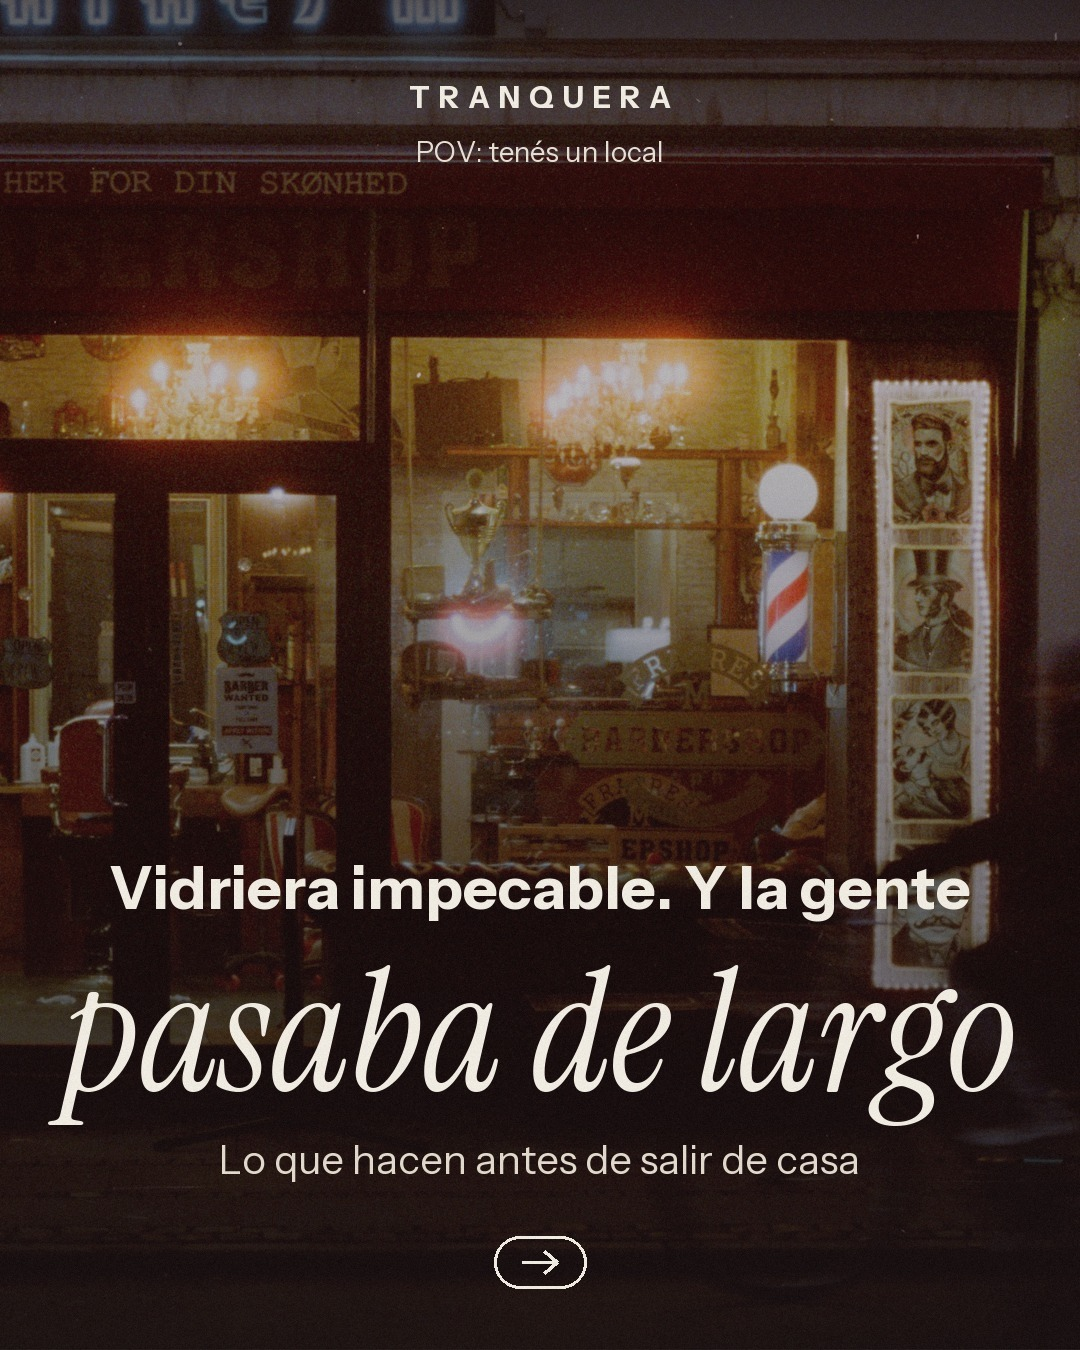
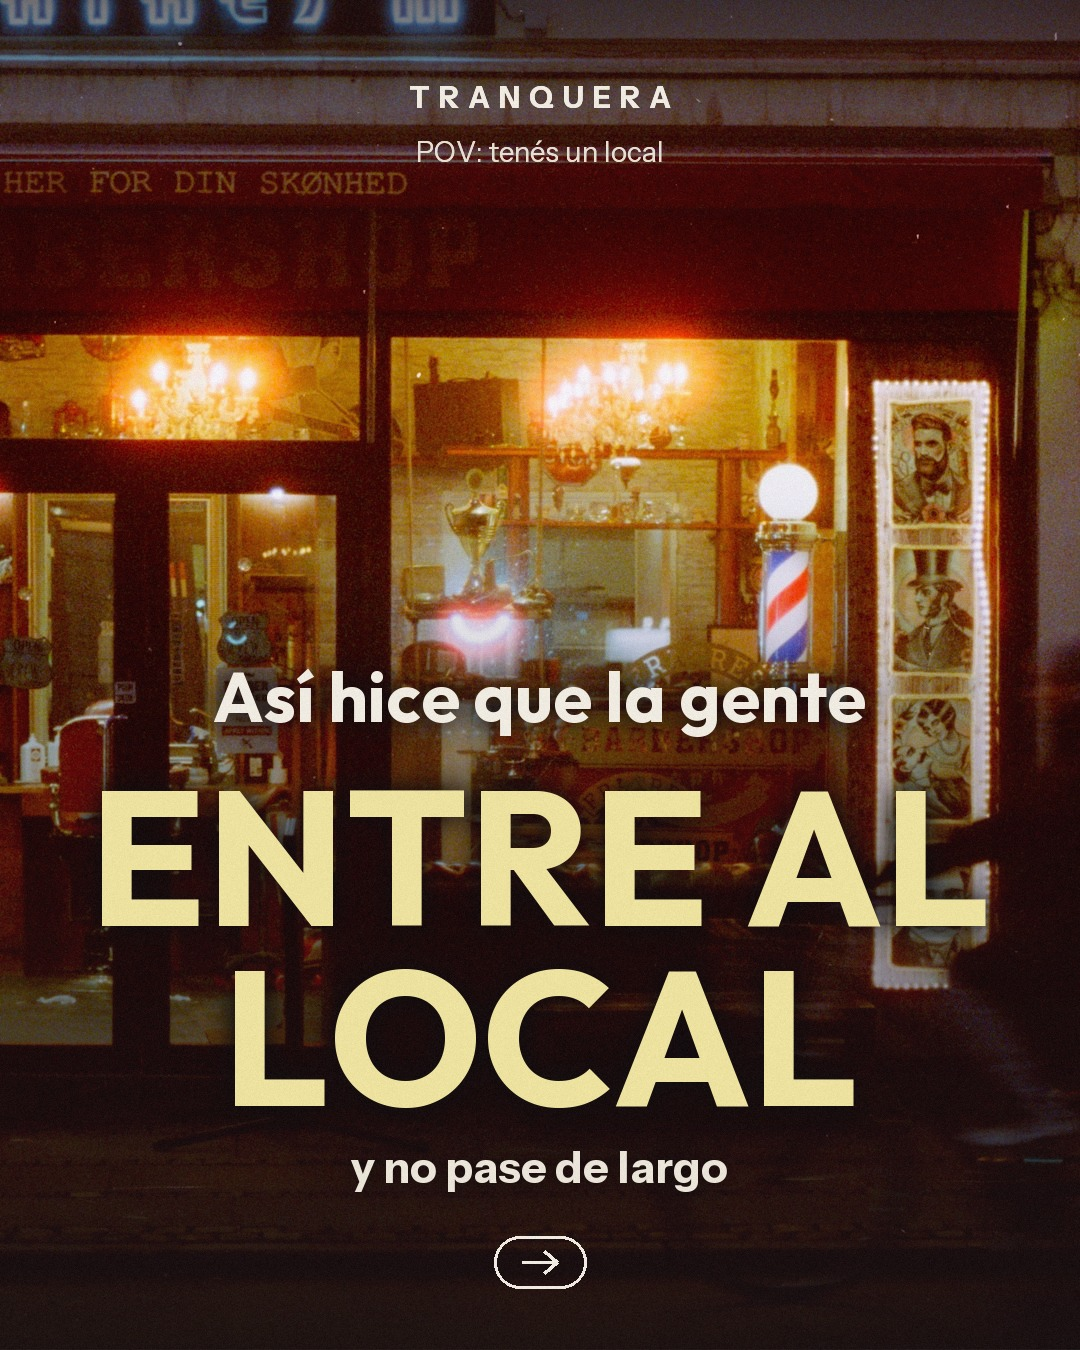
Carruseles diarios v3: tapas vivas, letra gorda, ganchos de solucion

diff --git a/carruseles-diarios/index.html b/carruseles-diarios/index.html
@@ -33,85 +33,85 @@ h1{font:800 clamp(38px,7vw,72px)/1 "Instrument Sans";margin:0 0 12px}h1 i{font:4
 <article class="car">
 <div class="imgs"><img src="img/c01-1.jpg" alt="Tapa 1" loading="lazy"><img src="img/c01-2.jpg" alt="Segunda tapa 1" loading="lazy"></div>
 <div class="txt"><p class="meta">Jue 19/11 · 12:30 · <b>Página + Google</b> · Problema / solución</p>
-<h2>Nadie me encontraba en <i>Google</i></h2><p class="rem">Era la ficha a medio llenar</p>
+<h2>Mi ficha de Google estaba a medias. Así la completé en <i>10 minutos</i></h2><p class="rem">Los 7 casilleros, uno por uno</p>
 <ol><li>Tapa</li><li>Segunda tapa: el casillero que casi todos dejan vacío</li><li>Nombre, rubro, horario, teléfono, fotos, web y reseñas: mal cargado vs bien cargado (ya producido, carrusel-ficha)</li><li>Cierre: guardalo + palabra clave</li></ol>
 <p class="cta"><span>FICHA</span> Comentá FICHA y te revisamos la tuya por privado.</p>
 <p class="tags">#negociolocal #pymesargentinas #googlemaps #comerciantes #tranqueradigital</p><p class="nota">El interior ya está hecho; cambia solo la tapa.</p></div></article><article class="car">
 <div class="imgs"><img src="img/c02-1.jpg" alt="Tapa 2" loading="lazy"><img src="img/c02-2.jpg" alt="Segunda tapa 2" loading="lazy"></div>
 <div class="txt"><p class="meta">Vie 20/11 · 12:30 · <b>Bot de WhatsApp</b> · Storytelling: del dolor a la solución</p>
-<h2>Contestaba el WhatsApp <i>a las 23 hs</i></h2><p class="rem">y ya le habían comprado a otro</p>
+<h2>Así hice que mi WhatsApp conteste <i>a las 23 hs</i></h2><p class="rem">sin que yo agarre el celu</p>
 <ol><li>Tapa</li><li>Segunda tapa: siempre las mismas 5 preguntas</li><li>Las 5: precio, horario, dónde están, si hacen envíos, si hay turno</li><li>Cada una con un chat ilustrado: cliente pregunta a las 23:47, nadie contesta</li><li>El giro: algo que contesta esas 5 al instante, con tu forma de hablar</li><li>Lo que no sabe, te lo pasa a vos (vos seguís siendo el dueño de la charla)</li><li>Cierre: palabra clave</li></ol>
 <p class="cta"><span>BOT</span> Comentá BOT y te mostramos por privado cómo quedaría en tu WhatsApp.</p>
 <p class="tags">#whatsappbusiness #emprendedoresargentinos #atencionalcliente #pymesargentinas #tranqueradigital</p><p class="nota">El 80% es parte de la escena (POV), no una estadística: en la placa va como frase del personaje.</p></div></article><article class="car">
 <div class="imgs"><img src="img/c03-1.jpg" alt="Tapa 3" loading="lazy"><img src="img/c03-2.jpg" alt="Segunda tapa 3" loading="lazy"></div>
 <div class="txt"><p class="meta">Sáb 21/11 · 12:30 · <b>Bot de redes</b> · Storytelling: del dolor a la solución</p>
-<h2>Terminé <i>abandonando</i></h2><p class="rem">el Instagram. Así volví.</p>
+<h2>Así volví a publicar en Instagram <i>todos los días</i></h2><p class="rem">sin perder una sola tarde</p>
 <ol><li>Tapa</li><li>Segunda tapa: el perfil con el último posteo de marzo</li><li>Lo que piensa un cliente nuevo cuando ve un Instagram abandonado: ¿estará abierto?</li><li>Lo que de verdad lleva tiempo: pensar qué subir, diseñar, escribir, acordarse</li><li>Cómo es con un bot de redes: vos aprobás, el resto se arma solo</li><li>Un mes de tu Instagram en una pantalla (calendario ilustrado)</li><li>Cierre: palabra clave</li></ol>
 <p class="cta"><span>REDES</span> Comentá REDES y te contamos por privado cómo funciona y cuánto sale.</p>
 <p class="tags">#emprendedoras #emprendedoresargentinos #redessociales #negociolocal #tranqueradigital</p></div></article><article class="car">
 <div class="imgs"><img src="img/c04-1.jpg" alt="Tapa 4" loading="lazy"><img src="img/c04-2.jpg" alt="Segunda tapa 4" loading="lazy"></div>
 <div class="txt"><p class="meta">Dom 22/11 · 12:30 · <b>Bot de redes</b> · Tu método (cómo escribimos)</p>
-<h2>Publicaba todos los días y <i>nadie comentaba</i></h2><p class="rem">El problema era la primera frase</p>
+<h2>Así cambié una sola frase y <i>me comentan</i></h2><p class="rem">Ganchos que funcionan, rubro por rubro</p>
 <ol><li>Tapa</li><li>Segunda tapa: buscá tu rubro</li><li>Verdulería · IA: &#x27;Frutas y verduras frescas&#x27; / Humano: &#x27;Tiré 20 kilos de tomate hasta que entendí esto&#x27;</li><li>Consultorio · IA: &#x27;Atención de calidad&#x27; / Humano: &#x27;La pregunta que todos me hacen y me da vergüenza contestar&#x27;</li><li>Pilates · IA: &#x27;Clases para todos los niveles&#x27; / Humano: &#x27;Llegó con dolor de espalda y no se animaba a subir al reformer&#x27;</li><li>Corralón · IA: &#x27;Todo para tu obra&#x27; / Humano: &#x27;Le vendí 3 bolsas de más porque nadie le hizo esta cuenta&#x27;</li><li>Ropa · IA: &#x27;Nueva temporada&#x27; / Humano: &#x27;El pantalón que se probaron 40 y se llevaron 2&#x27;</li><li>La regla en una placa: alguien, algo que perdió, un número, cortado antes del final</li><li>Cierre: guardalo + palabra clave</li></ol>
 <p class="cta"><span>GANCHOS</span> Comentá GANCHOS y te mandamos 5 para tu rubro por privado.</p>
 <p class="tags">#marketingdigital #emprendedoresargentinos #instagramtips #comerciantes #tranqueradigital</p><p class="nota">Es el formato del carrusel que mandaste, con nuestra paleta y rubros de comercio.</p></div></article><article class="car">
 <div class="imgs"><img src="img/c05-1.jpg" alt="Tapa 5" loading="lazy"><img src="img/c05-2.jpg" alt="Segunda tapa 5" loading="lazy"></div>
 <div class="txt"><p class="meta">Lun 23/11 · 12:30 · <b>Bot de redes</b> · Qué nos diferencia (3 opciones comparadas)</p>
-<h2>No podía pagar un <i>community manager</i></h2><p class="rem">Así lo resolví igual</p>
+<h2>Así tengo el Instagram al día <i>sin pagar un sueldo</i></h2><p class="rem">Las 3 opciones, comparadas</p>
 <ol><li>Tapa</li><li>Segunda tapa: las 3 opciones</li><li>Opción 1: hacerlo vos. Cuesta tiempo: tus noches y tus domingos</li><li>Opción 2: un community manager. Cuesta un sueldo todos los meses</li><li>Opción 3: un bot de redes. Planifica, diseña y publica; vos aprobás desde el celu</li><li>Tabla comparativa: tiempo, costo, constancia, quién decide</li><li>Cierre: precio por privado</li></ol>
 <p class="cta"><span>PRECIO</span> Comentá PRECIO y te pasamos el número por privado. Te va a sorprender.</p>
 <p class="tags">#communitymanager #emprendedoresargentinos #pymesargentinas #redessociales #tranqueradigital</p><p class="nota">Sin cifra del community manager en la placa: no hay un número confiable para 2026. Si querés poner $900.000, necesito de dónde sale.</p></div></article><article class="car">
 <div class="imgs"><img src="img/c06-1.jpg" alt="Tapa 6" loading="lazy"><img src="img/c06-2.jpg" alt="Segunda tapa 6" loading="lazy"></div>
 <div class="txt"><p class="meta">Mar 24/11 · 12:30 · <b>Página web</b> · Problema / solución</p>
-<h2>Vidriera impecable. Y la gente <i>pasaba de largo</i></h2><p class="rem">Lo que hacen antes de salir de casa</p>
+<h2>Así hice que la gente <i>entre al local</i></h2><p class="rem">y no pase de largo</p>
 <ol><li>Tapa</li><li>Segunda tapa: ya te buscaron</li><li>Paso 1: escriben &#x27;cerca mío&#x27; + tu rubro</li><li>Paso 2: miran fotos, horario y si hay un botón para escribir</li><li>Paso 3: comparan con el de la otra cuadra</li><li>Paso 4: eligen. Y vos ni te enteraste de que perdiste esa venta</li><li>Qué tiene que aparecer cuando te buscan (lista)</li><li>Cierre: te mostramos tu página antes de pagar</li></ol>
 <p class="cta"><span>WEB</span> Comentá WEB y te armamos una muestra de tu página antes de que pagues nada.</p>
 <p class="tags">#negociolocal #comerciantes #pymesargentinas #emprendedoresargentinos #tranqueradigital</p></div></article><article class="car">
 <div class="imgs"><img src="img/c07-1.jpg" alt="Tapa 7" loading="lazy"><img src="img/c07-2.jpg" alt="Segunda tapa 7" loading="lazy"></div>
 <div class="txt"><p class="meta">Mié 25/11 · 12:30 · <b>Página web</b> · Antes y después</p>
-<h2>Me preguntaban el precio <i>30 veces por día</i></h2><p class="rem">Ahora contesto con un link</p>
+<h2>Así dejé de pasar el precio <i>30 veces por día</i></h2><p class="rem">Ahora mando un link y listo</p>
 <ol><li>Tapa</li><li>Segunda tapa: cada aumento, otra vez</li><li>El caos: lista en una foto vieja, otra en historias, otra en la cabeza</li><li>Un catálogo en tu página: precios, fotos y un botón para pedir</li><li>Cambia un precio, lo cambiás en un lugar y listo</li><li>Cómo se ve desde el celu del cliente (maqueta ilustrada)</li><li>Cierre: palabra clave</li></ol>
 <p class="cta"><span>CATALOGO</span> Comentá CATALOGO y te mostramos cómo quedaría el tuyo.</p>
 <p class="tags">#emprendedoresargentinos #ventasonline #negociolocal #comerciantes #tranqueradigital</p></div></article><article class="car">
 <div class="imgs"><img src="img/c08-1.jpg" alt="Tapa 8" loading="lazy"><img src="img/c08-2.jpg" alt="Segunda tapa 8" loading="lazy"></div>
 <div class="txt"><p class="meta">Jue 26/11 · 12:30 · <b>Google + Página</b> · Problema / solución</p>
-<h2>Yo tenía 1.000 seguidores. Él, <i>10 reseñas</i></h2><p class="rem">Adiviná a quién eligieron</p>
+<h2>Así le gané al de enfrente con <i>10 reseñas</i></h2><p class="rem">y sin 1.000 seguidores</p>
 <ol><li>Tapa</li><li>Segunda tapa: el spoiler</li><li>Lo que ve en Google: estrellas, reseñas, fotos, horario</li><li>Lo que no ve: tus seguidores</li><li>Cómo pedir reseñas sin que dé vergüenza (3 frases para copiar)</li><li>Cómo contestar una reseña mala</li><li>Cierre: guardalo + palabra clave</li></ol>
 <p class="cta"><span>RESEÑAS</span> Comentá RESEÑAS y te pasamos el mensaje listo para pedirlas.</p>
 <p class="tags">#negociolocal #googlemaps #pymesargentinas #comerciantes #tranqueradigital</p><p class="nota">Reemplaza al posteo del jueves 26 del plan del mes (misma idea, en carrusel).</p></div></article><article class="car">
 <div class="imgs"><img src="img/c09-1.jpg" alt="Tapa 9" loading="lazy"><img src="img/c09-2.jpg" alt="Segunda tapa 9" loading="lazy"></div>
 <div class="txt"><p class="meta">Vie 27/11 · 12:30 · <b>Página + Bot de redes</b> · Problema / solución</p>
-<h2>Armé la promo de Black Friday <i>y nadie se enteró</i></h2><p class="rem">Los 5 lugares donde tenía que estar</p>
+<h2>Así hice que mi promo de Black Friday <i>llegue a todos</i></h2><p class="rem">Los 5 lugares donde publicarla</p>
 <ol><li>Tapa</li><li>Segunda tapa: la historia dura 24 horas</li><li>1. Tu ficha de Google (publicación de oferta)</li><li>2. Tu página, arriba de todo</li><li>3. Historia destacada, no solo historia</li><li>4. Estado de WhatsApp + mensaje a tus clientes</li><li>5. Un posteo fijado</li><li>Cierre: palabra clave</li></ol>
 <p class="cta"><span>PROMO</span> Comentá PROMO y te armamos la placa de tu oferta.</p>
 <p class="tags">#blackfriday #emprendedoresargentinos #ofertas #negociolocal #tranqueradigital</p><p class="nota">El mismo día sale el reel de Black Friday a las 19 hs: el carrusel va a las 12:30.</p></div></article><article class="car">
 <div class="imgs"><img src="img/c10-1.jpg" alt="Tapa 10" loading="lazy"><img src="img/c10-2.jpg" alt="Segunda tapa 10" loading="lazy"></div>
 <div class="txt"><p class="meta">Sáb 28/11 · 12:30 · <b>Bot de WhatsApp</b> · Storytelling: del dolor a la solución</p>
-<h2>Agenda llena y <i>la mitad no venía</i></h2><p class="rem">El mensaje que lo cambió</p>
+<h2>Así dejé de tener <i>turnos vacíos</i></h2><p class="rem">Un mensaje que sale solo</p>
 <ol><li>Tapa</li><li>Segunda tapa: nadie les recordó</li><li>El turno vacío: lo que cuesta una hora perdida</li><li>El recordatorio que sale solo el día anterior</li><li>Si no puede venir, lo cancela con un toque y el turno se libera</li><li>Rubros donde más pasa: consultorio, peluquería, estética, pilates</li><li>Cierre: palabra clave</li></ol>
 <p class="cta"><span>TURNOS</span> Comentá TURNOS y te mostramos cómo funciona en tu WhatsApp.</p>
 <p class="tags">#consultorio #estetica #peluqueria #emprendedoresargentinos #tranqueradigital</p><p class="nota">&#x27;La mitad&#x27; es parte de la escena, no un dato.</p></div></article><article class="car">
 <div class="imgs"><img src="img/c11-1.jpg" alt="Tapa 11" loading="lazy"><img src="img/c11-2.jpg" alt="Segunda tapa 11" loading="lazy"></div>
 <div class="txt"><p class="meta">Dom 29/11 · 12:30 · <b>Página web</b> · Preguntas sobre el servicio (qué buscan de vos)</p>
-<h2>Me buscaron en Google y <i>encontraron al de enfrente</i></h2><p class="rem">Lo que escribe tu cliente antes de ir</p>
+<h2>Así hice que en Google me encuentren <i>a mí</i></h2><p class="rem">y no al de enfrente</p>
 <ol><li>Tapa</li><li>Segunda tapa: buscá tu rubro</li><li>Consultorio: &#x27;dermatólogo que atienda OSDE cerca&#x27;</li><li>Pilates: &#x27;pilates reformer clase de prueba&#x27;</li><li>Verdulería: &#x27;verdulería con envío&#x27;</li><li>Corralón: &#x27;arena y cemento envío hoy&#x27;</li><li>Ropa: &#x27;tienda de ropa abierta domingo&#x27;</li><li>Gastronomía: &#x27;dónde comer cerca abierto ahora&#x27;</li><li>Cierre: mandáselo a alguien con un local + palabra clave</li></ol>
 <p class="cta"><span>RUBRO</span> Comentá RUBRO con el tuyo y te decimos qué buscan de vos.</p>
 <p class="tags">#comerciantes #negociolocal #emprendedoresargentinos #pymesargentinas #tranqueradigital</p><p class="nota">Las búsquedas son ejemplos de cómo escribe la gente, no datos de volumen.</p></div></article><article class="car">
 <div class="imgs"><img src="img/c12-1.jpg" alt="Tapa 12" loading="lazy"><img src="img/c12-2.jpg" alt="Segunda tapa 12" loading="lazy"></div>
 <div class="txt"><p class="meta">Lun 30/11 · 12:30 · <b>Página web</b> · Antes y después</p>
-<h2>Mi página tenía 6 años y <i>me daba vergüenza</i></h2><p class="rem">6 señales de que pide cambio</p>
+<h2>Así cambié mi página vieja por una que <i>me da orgullo</i></h2><p class="rem">6 señales de que la tuya pide cambio</p>
 <ol><li>Tapa</li><li>Segunda tapa: el zoom</li><li>1. No se lee bien en el celu</li><li>2. El horario está viejo</li><li>3. No hay botón para escribirte por WhatsApp</li><li>4. Las fotos son de cuando abriste</li><li>5. No sabés quién la puede cambiar</li><li>6. Te da vergüenza pasarla</li><li>Cierre: te mostramos la nueva antes de pagar</li></ol>
 <p class="cta"><span>MUESTRA</span> Comentá MUESTRA y te armamos cómo quedaría la tuya, antes de pagar.</p>
 <p class="tags">#pymesargentinas #emprendedoresargentinos #negociolocal #profesionales #tranqueradigital</p></div></article><article class="car">
 <div class="imgs"><img src="img/c13-1.jpg" alt="Tapa 13" loading="lazy"><img src="img/c13-2.jpg" alt="Segunda tapa 13" loading="lazy"></div>
 <div class="txt"><p class="meta">Mar 1/12 · 12:30 · <b>Página web</b> · Storytelling con humor</p>
-<h2>El sobrino me hizo la página y <i>se fue a España</i></h2><p class="rem">Lo que tiene que estar a tu nombre</p>
+<h2>El sobrino se fue a España. Así recuperé <i>mi página</i></h2><p class="rem">y ahora la manejo yo</p>
 <ol><li>Tapa</li><li>Segunda tapa: ni la contraseña</li><li>El dominio (tunombre.com.ar): a tu nombre, no al del sobrino</li><li>Quién la cambia cuando cambia un precio</li><li>Dónde está guardada y quién la paga</li><li>Qué pedir antes de que alguien te haga la página</li><li>Cierre: palabra clave</li></ol>
 <p class="cta"><span>WEB</span> Comentá WEB y te ayudamos a recuperar la tuya o te armamos una nueva.</p>
 <p class="tags">#emprendedoresargentinos #negociolocal #pymesargentinas #comerciantes #tranqueradigital</p><p class="nota">Humor: el sobrino es el villano simpático, no se habla mal de nadie real.</p></div></article><article class="car">
 <div class="imgs"><img src="img/c14-1.jpg" alt="Tapa 14" loading="lazy"><img src="img/c14-2.jpg" alt="Segunda tapa 14" loading="lazy"></div>
 <div class="txt"><p class="meta">Mié 2/12 · 12:30 · <b>Bot de WhatsApp</b> · Qué hace único a nuestro bot</p>
-<h2>Le puse un bot al WhatsApp y <i>se ofendieron</i></h2><p class="rem">Respuesta que espanta vs respuesta que vende</p>
+<h2>Así hice que mi bot de WhatsApp <i>hable como yo</i></h2><p class="rem">Respuestas que espantan vs respuestas que venden</p>
 <ol><li>Tapa</li><li>Segunda tapa: cómo hablaba</li><li>&#x27;Su consulta es importante para nosotros&#x27; vs &#x27;Hola, sí, tenemos. Te lo guardo?&#x27;</li><li>&#x27;Presione 1 para precios&#x27; vs &#x27;Hoy el kilo está $X. Querés que te lo mande?&#x27;</li><li>&#x27;Fuera del horario de atención&#x27; vs &#x27;Ahora estamos cerrados, mañana a las 9 te escribe Marta&#x27;</li><li>La regla: que hable como vos</li><li>Cierre: palabra clave</li></ol>
 <p class="cta"><span>BOT</span> Comentá BOT y te mostramos uno que habla como vos.</p>
 <p class="tags">#whatsappbusiness #atencionalcliente #emprendedoresargentinos #negociolocal #tranqueradigital</p></div></article>
